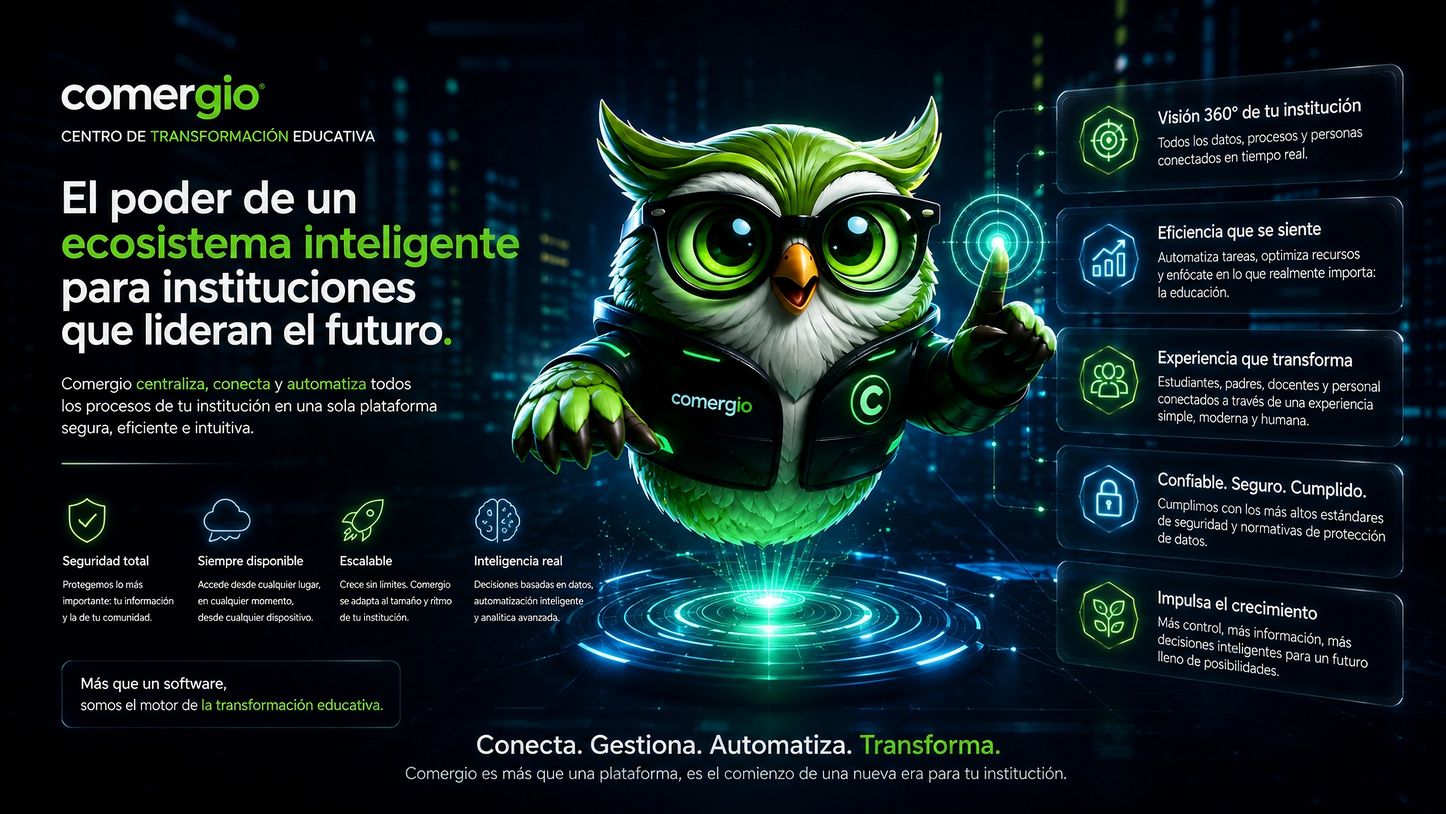
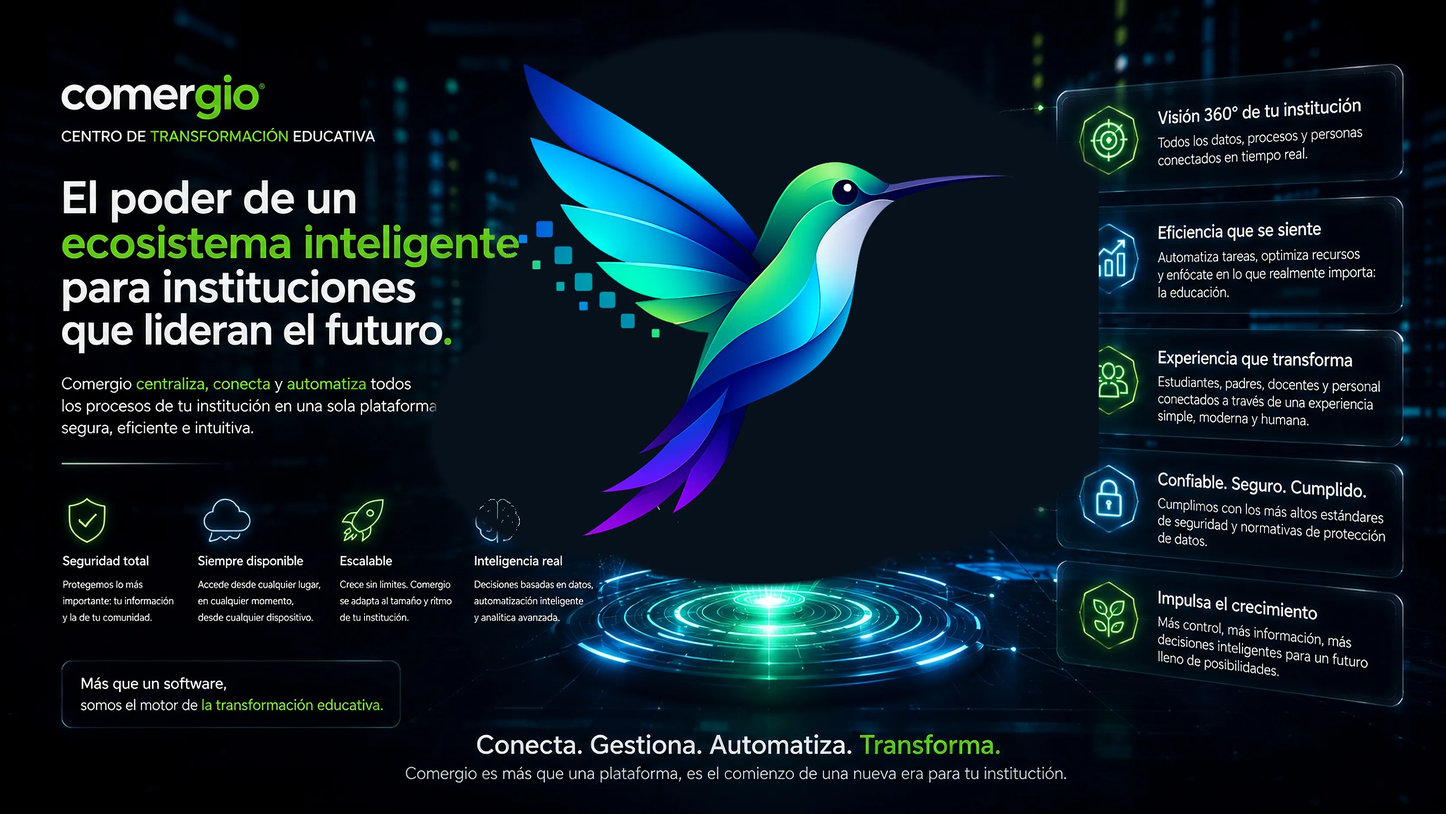
Replace the landing hero owl with the Comergio hummingbird.

Changed region(s): [[0.3421, 0.0616, 0.7775, 0.7396], [0.311, 0.5855, 0.3732, 0.678], [0.7153, 0.6164, 0.7464, 0.6472]]

diff --git a/comergio-frontend/src/pages/LandingPage.jsx b/comergio-frontend/src/pages/LandingPage.jsx
@@ -3,7 +3,7 @@ import { Link } from 'react-router-dom';
 import './LandingPage.css';
 import { LOGIN_PATH } from '../lib/authNavigation';
 
-const FRAMES_CACHE_VERSION = 56;
+const FRAMES_CACHE_VERSION = 57;
 const VIDEO1_SRC = `/landing/hero-scroll.mp4?v=${FRAMES_CACHE_VERSION}`;
 const VIDEO2_SRC = `/landing/hero-scroll-section2.mp4?v=${FRAMES_CACHE_VERSION}`;
 const VIDEO3_SRC = `/landing/hero-scroll-section3.mp4?v=${FRAMES_CACHE_VERSION}`;
